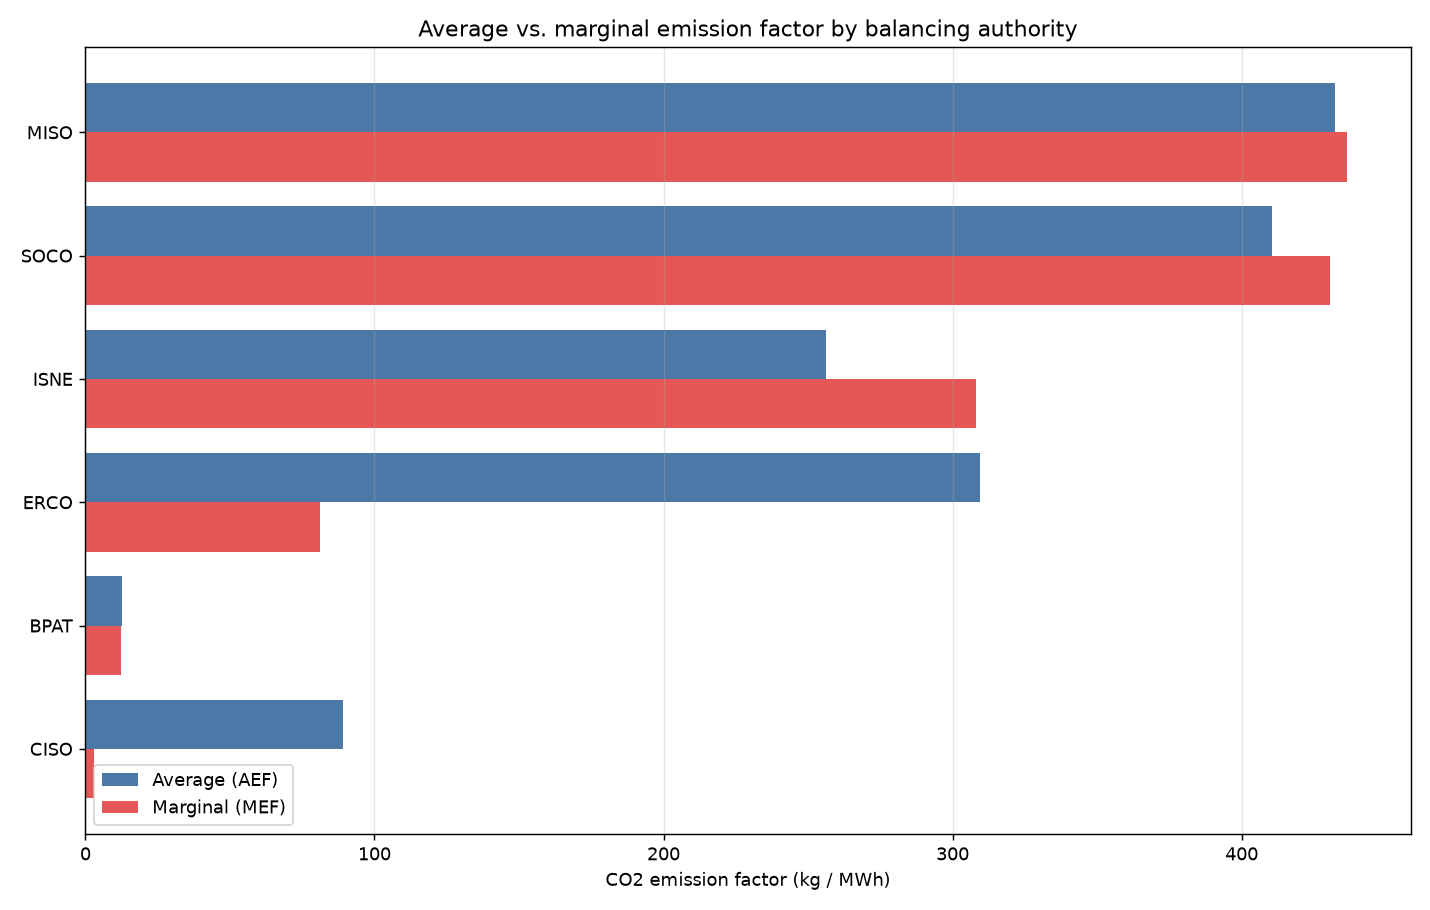
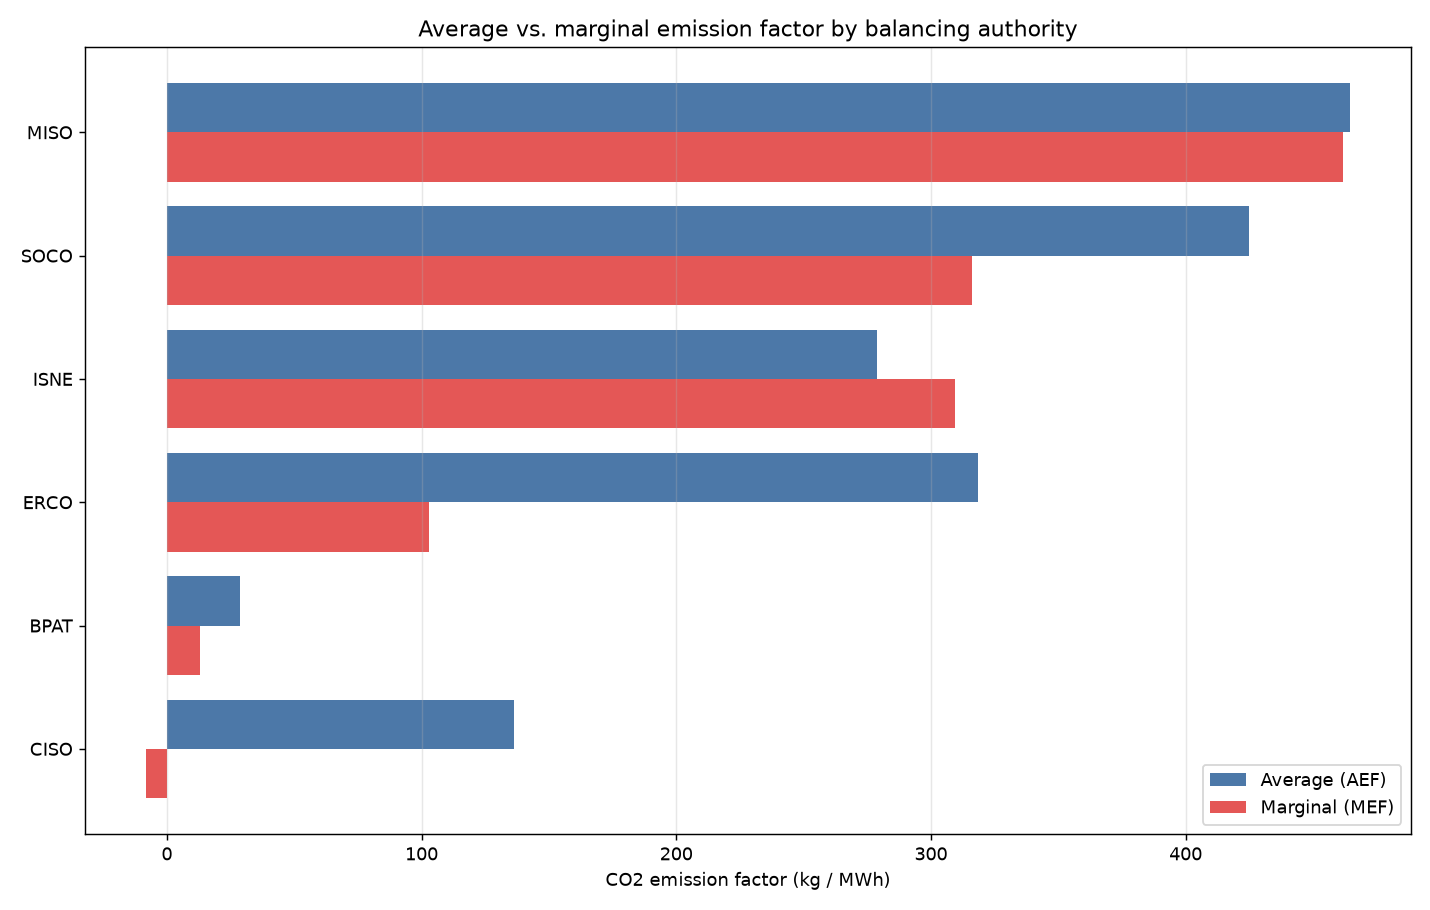
chore: EIA refresh 2026-09-03

diff --git a/docs/report.md b/docs/report.md
@@ -6,12 +6,12 @@ Balancing authorities analyzed: **6**
 
 | Rank | BA | MEF (kg/MWh) | AEF (kg/MWh) | rank shift (avg→marg) |
 |---:|---|---:|---:|---:|
-| 1 | CISO | 3 | 89 | +1 |
-| 2 | BPAT | 12 | 13 | -1 |
-| 3 | ERCO | 81 | 310 | +1 |
-| 4 | ISNE | 308 | 256 | -1 |
-| 5 | SOCO | 430 | 411 | +0 |
-| 6 | MISO | 437 | 432 | +0 |
+| 1 | CISO | -8 | 136 | +1 |
+| 2 | BPAT | 13 | 29 | -1 |
+| 3 | ERCO | 103 | 318 | +1 |
+| 4 | ISNE | 309 | 279 | -1 |
+| 5 | SOCO | 316 | 425 | +0 |
+| 6 | MISO | 462 | 465 | +0 |
 
 ## Rank inversions (average-based analysis gets these wrong)
 
